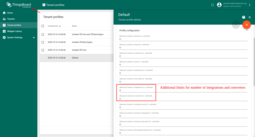
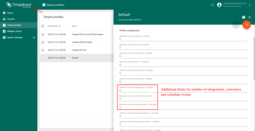
Tenant profiles

diff --git a/docs/user-guide/tenant-profiles.md b/docs/user-guide/tenant-profiles.md
@@ -10,6 +10,14 @@ entityLimits:
     1:
         image: /images/user-guide/tenant-profile/thingsboard-pe-tenant-profiles-entity-limits.png  
 
+apiLimitsDashboard:
+    0:
+        image: /images/user-guide/tenant-profile/thingsboard-tenant-profiles-api-limits-dashboard.png  
+
+rateLimits:
+    0:
+        image: /images/user-guide/tenant-profile/thingsboard-ce-rate-limits.png  
+
 ---
 
 * TOC
@@ -40,6 +48,7 @@ ThingsBoard constantly collects and analyze statistics about API Usage. The typi
 ThingsBoard tracks API usage for six main components: Transport, Rule Engine, JS functions, Telemetry persistence, Email and SMS services.
 The platform will disable the component if one of the related API Limits reaches threshold. 
 For example, if Tenant devices will produce more than 100M messages per month, platform will disable all connections for devices that belong to this Tenant.
+When the API usage is disabled or reaches a certain threshold (typically, 80%) thingsBoard will notify the Tenant Administrator over email.  
 
 Let's review each limit separately:
 
@@ -69,25 +78,37 @@ Processing of a single telemetry message may cause multiple Rule Engine executio
 
 **JavaScript executions** means any execution of the custom function defined by tenant administrators. For example, processing of the "Script" filter or transformation node, invocation of the data converter, etc.       
 
-**Data points storage days** is calculated for all time-series data points that are stored to the database. 
-Platform multiplies number of data points with the number of days extracted from the TTL parameter. 
+**Data points storage days** are calculated for all time-series data points that are stored to the database. 
+Platform multiplies number of data points by the number of days those data points will be stored. 
+The TTL parameter is used to extract amount of days to store the data. 
 For example, if you store 3 data points for 30 days, this is 90 storage data point days.
-System administrator is able to configure default TTL using "**Default Storage TTL Days**" parameter.
+System administrator is able to configure default TTL using "**Default Storage TTL Days**" parameter in the tenant profile.
 Tenant administrator is able to overwrite default TTL using "**Save Timeseries**" rule node configuration or using "TTL" parameter in the post telemetry request.
 
-**Emails sent**
+**Emails sent** means number of emails that are sent from the rule engine using system SMTP provider (settings). 
+Please note that Tenant Administrator is able to define custom SMTP settings in both Community and Professional Editions of the platform.
+Emails sent with custom SMTP settings do not affect API limits.  
 
-TODO
-
-**SMS sent**
-
-TODO
+**SMS sent** means number of sms that are sent from the rule engine using system SMS provider. 
+Please note that Tenant Administrator is able to define custom SMS provider settings in both Community and Professional Editions of the platform. 
+SMS sent with custom SMTP settings do not affect API limits.
 
 ### Api Usage dashboard
 
+As a Tenant Administrator, you may review the Api Usage dashboard. The dashboard listed below allows tenant administrators to learn more about their hourly/daily/monthly API usage and instantly review the status of the API limits. 
 
+{% include images-gallery.html imageCollection="apiLimitsDashboard" %}
 
 ## Rate Limits
+
+This group of settings allow System Administrator to configure maximum number of
+requests platform should handle for a specific device (device level) or for all devices that belong to one tenant (tenant level).
+The rate limits implementation is based on the [token bucket](https://en.wikipedia.org/wiki/Token_bucket) algorithm.
+
+The rate limit definition consists of the value and time interval. For example, "1000:60" means "no more than 1000 messages per 60 seconds". 
+You may define multiple intervals with ",". For example, "100:1,1000:60" means "bursts of 100 messages per second but no more than 1000 times per 60 seconds".
+
+{% include images-gallery.html imageCollection="rateLimits" %}
 
 ## Processing in isolated ThingsBoard Core and Rule Engine containers
 
